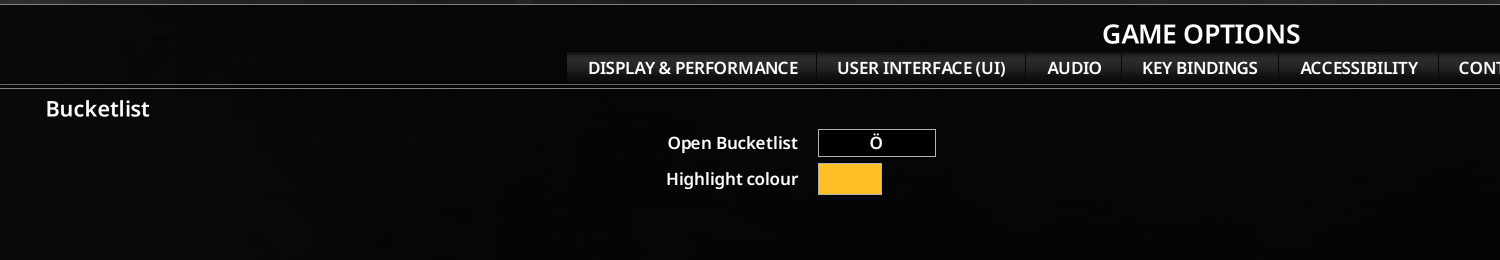
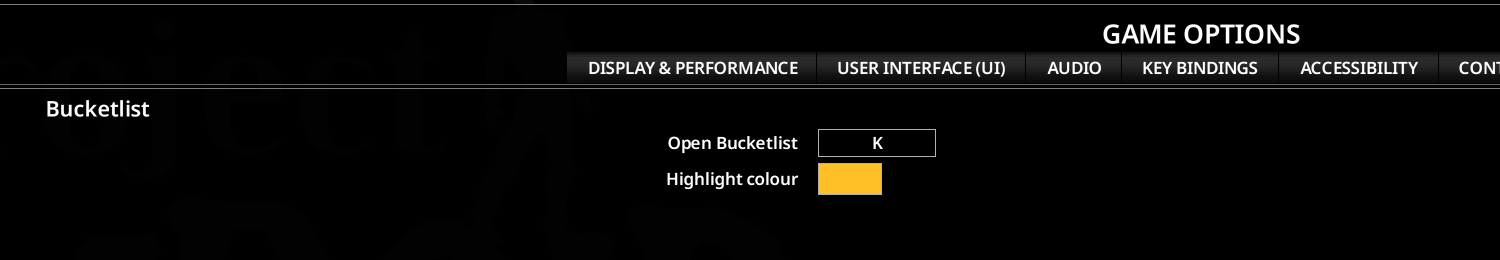
Default hotkey K instead of the key right of L, version 1.0.1
K is the only letter the game's default bindings leave free and sits in the
same place on QWERTY, QWERTZ and AZERTY keyboards.

Changed region(s): [[0.0, 0.0, 1.0, 0.0308], [0.5827, 0.5231, 0.6133, 0.5538]]

diff --git a/docs/API.md b/docs/API.md
@@ -141,7 +141,7 @@ game test still has to show the effect.
 | `onKeyRelease` | `media/lua/client/ISUI/Crafting/ISHandcraftWindow.lua:293` | `onKeyRelease(key)` | Client | Close on ESC and hotkey | verified |
 | `setWantKeyEvents` | `media/lua/client/ISUI/Crafting/ISHandcraftWindow.lua:386` | `setWantKeyEvents(true)` | Client | Window receives key events | verified |
 | `Keyboard.KEY_ESCAPE` | `media/lua/client/ISUI/Crafting/ISHandcraftWindow.lua:290` | Key code | Client | Detect ESC | verified |
-| `Keyboard.KEY_SEMICOLON` | `media/lua/shared/keyBinding.lua:13` | Key code 39 (constant in `org/lwjglx/input/Keyboard.class` of the game jar, spelled like `Keyboard.KEY_W` here) | Client | Default hotkey: the semicolon key, which is Ö on a German keyboard | verified |
+| `Keyboard.KEY_K` | `media/lua/client/erosion/debug/DebugDemoTime.lua:90` | Key code 37 (constant in `org/lwjglx/input/Keyboard.class` of the game jar); not bound in `media/lua/shared/keyBinding.lua` | Client | Default hotkey | verified |
 | `getPlayerScreenLeft` | `media/lua/client/ISUI/PlayerData/ISPlayerDataObject.lua:103` | `getPlayerScreenLeft/Top/Width/Height(playerNum)` (lines 103 to 106) | Client | Center the window in the player's screen area | verified |
 | `ISUIElement:addToUIManager` | `media/lua/client/ISUI/ISUIElement.lua:1365` | `addToUIManager()`, `removeFromUIManager()` line 1373 | Client | Show and hide the window | verified |
 | `ISUIElement:setVisible` | `media/lua/client/ISUI/ISUIElement.lua:657` | `setVisible(bool)`, `getIsVisible()` line 676 | Client | Visibility | verified |

diff --git a/docs/DECISIONS.md b/docs/DECISIONS.md
@@ -70,12 +70,12 @@ is available. Ingredients counted in uses get a wanted amount of 1 item.
 **D10. Deleting in the window.** A second click confirms. `ISModalDialog` is not an option: when it
 closes it sets the game speed to 1 and thereby ends a pause.
 
-**D11. Hotkey.** The default key is Ö on a German keyboard (chosen by the author on 2026-10-08), which
-is `Keyboard.KEY_SEMICOLON` with code 39 in the game. The game identifies keys by their US layout
-position: the key binding menu shows ";", and on other keyboards it is whichever key sits in that
-position. Vanilla uses the letter keys, F7 to F9 and 9/0 were taken by hotbar slots in the author's
-setup, and B opens the crafting window. The semicolon position is free. The key can be rebound in the
-mod options (page "Bucketlist", PZAPI.ModOptions); key 0 means unbound.
+**D11. Hotkey.** The default key is K (`Keyboard.KEY_K`, code 37). It is the only letter that the
+game's default key bindings (`media/lua/shared/keyBinding.lua`) leave free, so the mod overrides
+nothing, and it sits in the same place on QWERTY, QWERTZ and AZERTY keyboards. Until 2026-10-10 the
+default was the key right of L (`KEY_SEMICOLON`), which only suited a German keyboard. Players who
+already saved their mod options keep the key they had. The key can be rebound in the mod options
+(page "Bucketlist", PZAPI.ModOptions); key 0 means unbound.
 
 **D12. Controller.** No separate controller access in v1, it was not part of the original scope. The
 context menu also works with a controller.

diff --git a/README.md b/README.md
@@ -42,7 +42,7 @@ Taken in game 42.21.0. The mod ships English and German texts.
 | What | How |
 |---|---|
 | Add or remove an item | right-click the item |
-| Open or close the window | sidebar button, or the key right of L on a German keyboard (";" on a US keyboard); rebind it in Options, Mods, Bucketlist |
+| Open or close the window | sidebar button, or the key K; rebind it in Options, Mods, Bucketlist |
 | Close the window | X, ESC or the hotkey |
 | Change amount, edit note | buttons under the list, or right-click a row |
 | Missing recipe inputs | button in the crafting window and at workbenches |
